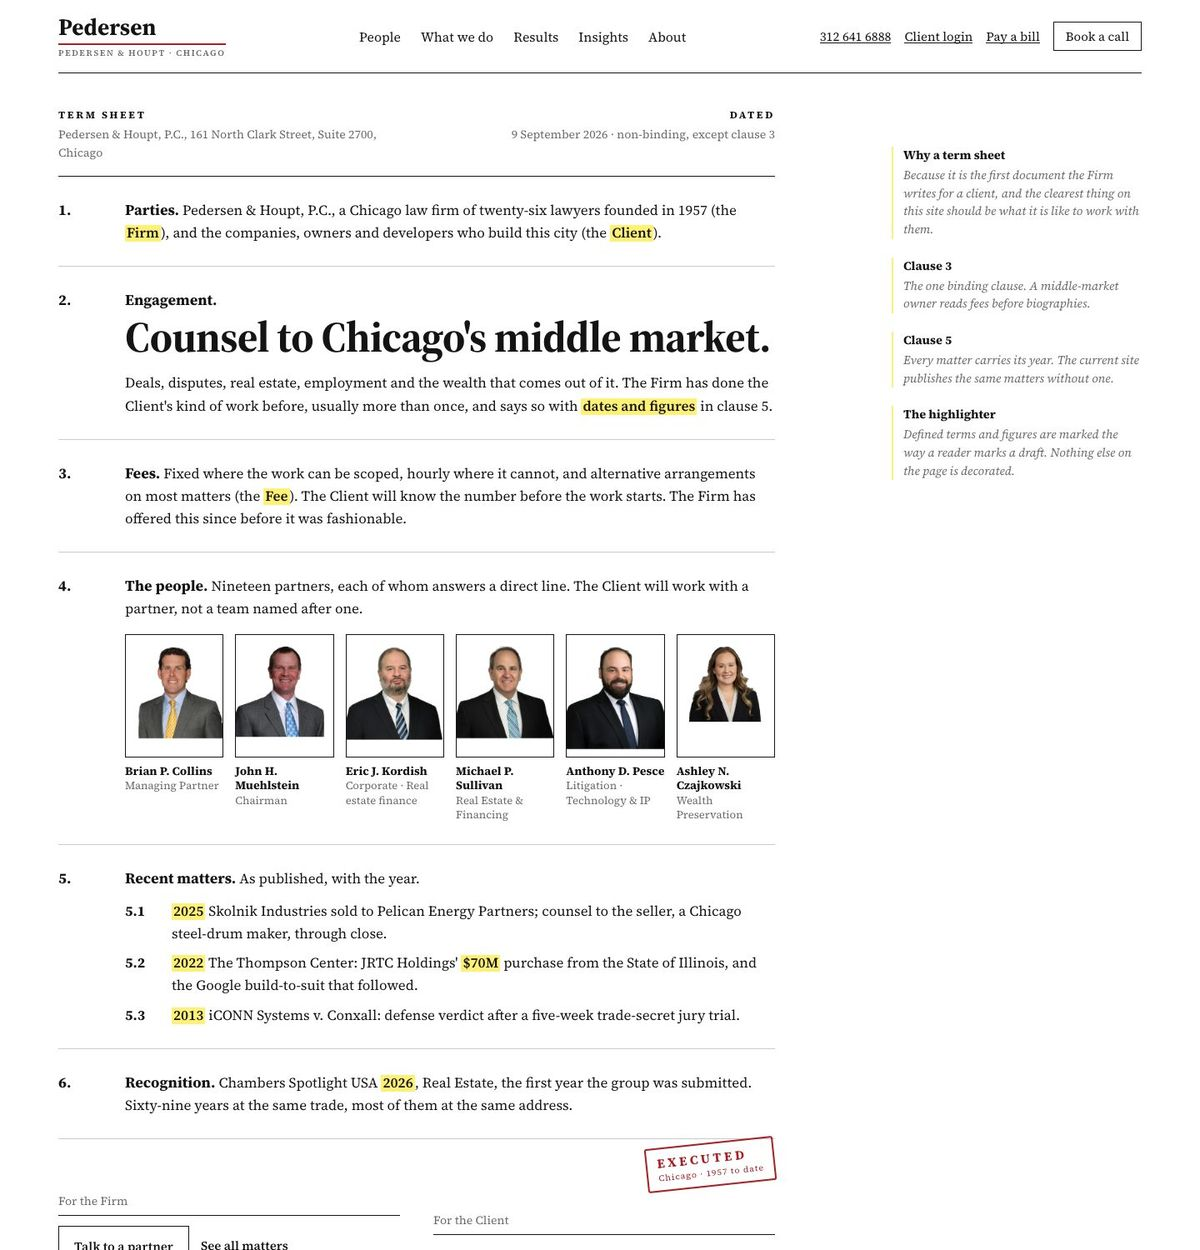
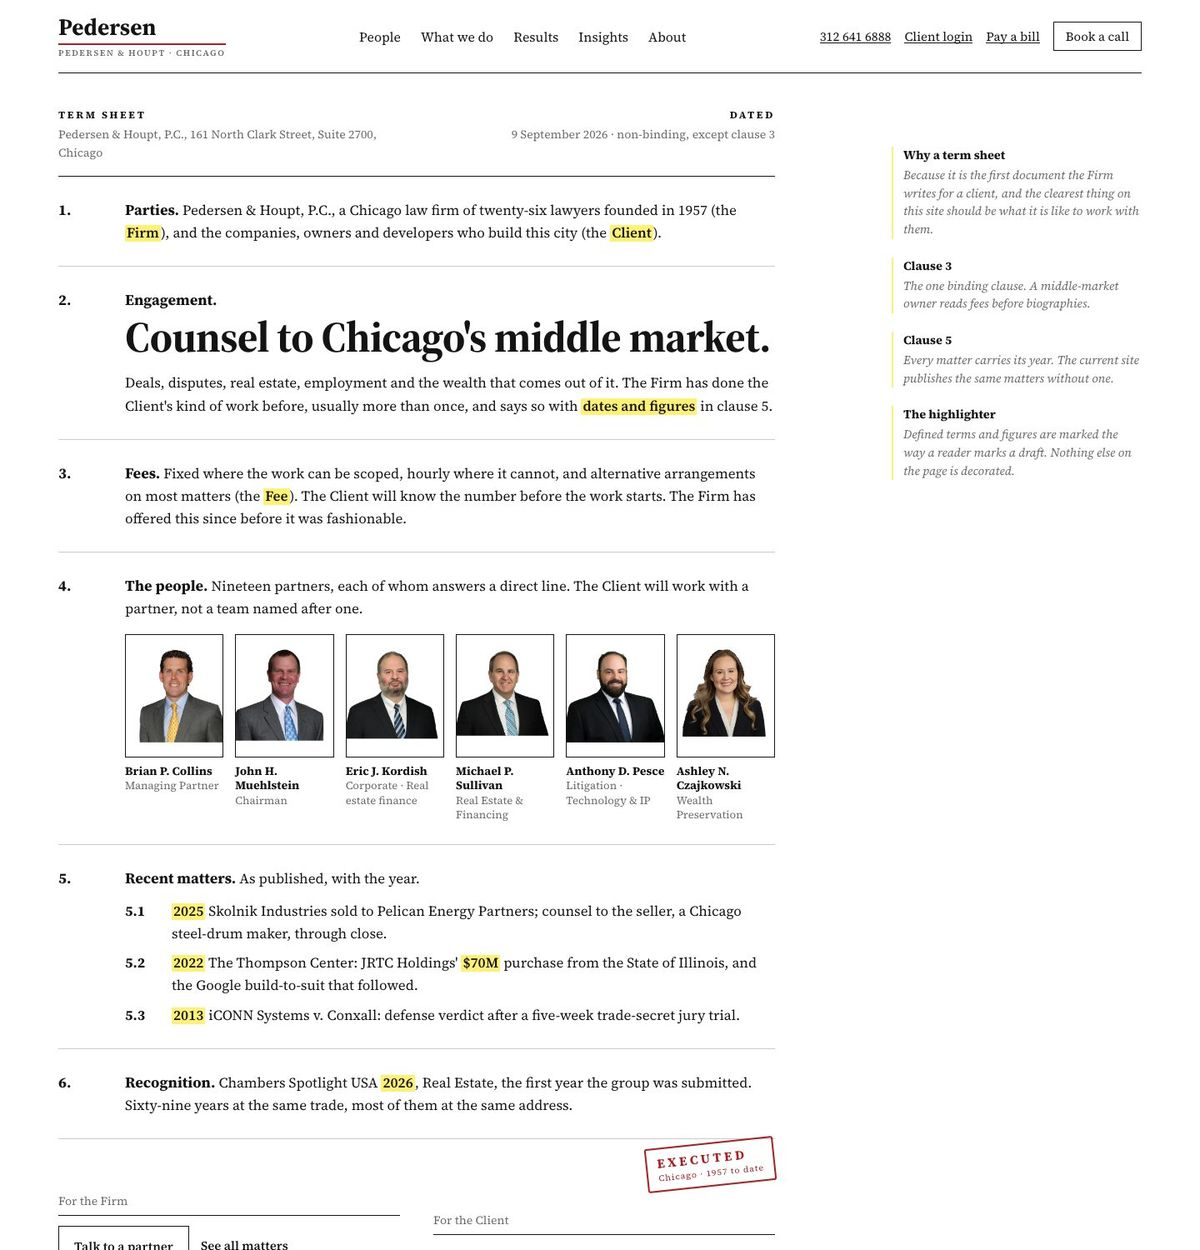
Pedersen demos: face-framed full-res cut-outs, color portraits in B, one panel color in E

Changed region(s): [[0.4625, 0.4992, 0.6475, 0.624], [0.3083, 0.4992, 0.4625, 0.5928], [0.0925, 0.4992, 0.2775, 0.5928]]

diff --git a/Documents/Claude code/pedersen-houpt-site-audit/index.html b/Documents/Claude code/pedersen-houpt-site-audit/index.html
@@ -2496,7 +2496,7 @@
           <div class="sys">
             <div><b>Type</b><strong>Schibsted Grotesk</strong>, a Norwegian newspaper grotesk, for headlines; <strong>Newsreader</strong> for the announcements themselves, the way the genre is set.</div>
             <div><b>Color</b><span class="chip" style="background:#FFFFFF"></span>white <span class="chip" style="background:#111111"></span>black, one lead stone reversed; the red only as the seal. No tints, no gray panels.</div>
-            <div><b>Pictures</b>None but the people, small and black and white. The numerals and the rules are the pictures; the seal is the one moving thing.</div>
+            <div><b>Pictures</b>None but the people, in color, in ruled frames. The numerals and the rules are the pictures; the seal is the one moving thing.</div>
             <div><b>Says · risk</b>Results, on the record, with dates. <strong>Risk:</strong> the industry's own word for these is tombstone; the black lead stone and the seal keep it from reading as a memorial.</div>
           </div>
         </div>
@@ -2540,14 +2540,14 @@
           <div class="kicker"><span class="dot"></span><span class="num">23</span> Direction E · The Loop · <a href="mock/loop-home.html" target="_blank">open the demo ↗</a></div>
           <h2 data-split>The Thompson Center's colors.</h2>
           <div class="ev dir">
-            <figure><img class="shot" src="img/ev/mock-loop-home-desktop.jpg" alt="Direction E homepage" /><figcaption><b>Homepage</b> · the atrium as the hero with a slow drift, a salmon and blue-gray band, color portraits on colored panels, one curved corner</figcaption></figure>
-            <figure><img class="shot" src="img/ev/mock-loop-bio-desktop.jpg" alt="Direction E attorney page" /><figcaption><b>Attorney page</b> · a salmon name band, the portrait on blue, matters as colored cards</figcaption></figure>
+            <figure><img class="shot" src="img/ev/mock-loop-home-desktop.jpg" alt="Direction E homepage" /><figcaption><b>Homepage</b> · the atrium as the hero with a slow drift, a salmon and blue-gray band, color portraits on blue-gray panels, one curved corner</figcaption></figure>
+            <figure><img class="shot" src="img/ev/mock-loop-bio-desktop.jpg" alt="Direction E attorney page" /><figcaption><b>Attorney page</b> · a blue-gray name band, the portrait beside it, matters as cards</figcaption></figure>
             <figure><img class="tall" src="img/ev/mock-loop-home-phone.jpg" alt="Direction E on a phone" /><figcaption><b>Phone</b></figcaption></figure>
           </div>
           <div class="sys">
             <div><b>Type</b><strong>Bricolage Grotesque</strong> at 800, wide and warm, with its optical size pushed for the headline. One family, three weights.</div>
             <div><b>Color</b><span class="chip" style="background:#E9A797"></span>salmon <span class="chip" style="background:#9DB6C9"></span>blue-gray <span class="chip" style="background:#141516"></span>ink: the palette of the firm's marquee matter, the building it bought for a client in 2022.</div>
-            <div><b>Pictures</b>The atrium, the L on Wabash, the office in color after the photo day. Portraits on alternating salmon and blue panels.</div>
+            <div><b>Pictures</b>The atrium, the L on Wabash, the office in color after the photo day. Portraits on blue-gray panels; the salmon kept to one button.</div>
             <div><b>Says · risk</b>A Chicago firm with energy. <strong>Risk:</strong> the closest of the five to a familiar layout; its signature is the palette and a curve, and palettes date.</div>
           </div>
         </div>

diff --git a/Documents/Claude code/pedersen-houpt-site-audit/slides.html b/Documents/Claude code/pedersen-houpt-site-audit/slides.html
@@ -1221,7 +1221,7 @@
           <div class="sys">
             <div><b>Type</b><strong>Schibsted Grotesk</strong>, a Norwegian newspaper grotesk, for headlines; <strong>Newsreader</strong> for the announcements themselves, the way the genre is set.</div>
             <div><b>Color</b><span class="chip" style="background:#FFFFFF"></span>white <span class="chip" style="background:#111111"></span>black, one lead stone reversed; the red only as the seal. No tints, no gray panels.</div>
-            <div><b>Pictures</b>None but the people, small and black and white. The numerals and the rules are the pictures; the seal is the one moving thing.</div>
+            <div><b>Pictures</b>None but the people, in color, in ruled frames. The numerals and the rules are the pictures; the seal is the one moving thing.</div>
             <div><b>Says · risk</b>Results, on the record, with dates. <strong>Risk:</strong> the industry's own word for these is tombstone; the black lead stone and the seal keep it from reading as a memorial.</div>
           </div>
         </div>
@@ -1265,14 +1265,14 @@
           <div class="kicker"><span class="dot"></span><span class="num">23</span> Direction E · The Loop · <a href="mock/loop-home.html" target="_blank">open the demo ↗</a></div>
           <h2 data-split>The Thompson Center's colors.</h2>
           <div class="ev dir">
-            <figure><img class="shot" src="img/ev/mock-loop-home-desktop.jpg" alt="Direction E homepage" /><figcaption><b>Homepage</b> · the atrium as the hero with a slow drift, a salmon and blue-gray band, color portraits on colored panels, one curved corner</figcaption></figure>
-            <figure><img class="shot" src="img/ev/mock-loop-bio-desktop.jpg" alt="Direction E attorney page" /><figcaption><b>Attorney page</b> · a salmon name band, the portrait on blue, matters as colored cards</figcaption></figure>
+            <figure><img class="shot" src="img/ev/mock-loop-home-desktop.jpg" alt="Direction E homepage" /><figcaption><b>Homepage</b> · the atrium as the hero with a slow drift, a salmon and blue-gray band, color portraits on blue-gray panels, one curved corner</figcaption></figure>
+            <figure><img class="shot" src="img/ev/mock-loop-bio-desktop.jpg" alt="Direction E attorney page" /><figcaption><b>Attorney page</b> · a blue-gray name band, the portrait beside it, matters as cards</figcaption></figure>
             <figure><img class="tall" src="img/ev/mock-loop-home-phone.jpg" alt="Direction E on a phone" /><figcaption><b>Phone</b></figcaption></figure>
           </div>
           <div class="sys">
             <div><b>Type</b><strong>Bricolage Grotesque</strong> at 800, wide and warm, with its optical size pushed for the headline. One family, three weights.</div>
             <div><b>Color</b><span class="chip" style="background:#E9A797"></span>salmon <span class="chip" style="background:#9DB6C9"></span>blue-gray <span class="chip" style="background:#141516"></span>ink: the palette of the firm's marquee matter, the building it bought for a client in 2022.</div>
-            <div><b>Pictures</b>The atrium, the L on Wabash, the office in color after the photo day. Portraits on alternating salmon and blue panels.</div>
+            <div><b>Pictures</b>The atrium, the L on Wabash, the office in color after the photo day. Portraits on blue-gray panels; the salmon kept to one button.</div>
             <div><b>Says · risk</b>A Chicago firm with energy. <strong>Risk:</strong> the closest of the five to a familiar layout; its signature is the palette and a curve, and palettes date.</div>
           </div>
         </div>

diff --git a/Documents/Claude code/pedersen-houpt-site-audit/mock/loop-bio.html b/Documents/Claude code/pedersen-houpt-site-audit/mock/loop-bio.html
@@ -23,7 +23,7 @@ nav{display:flex;gap:26px;font:700 14.5px/1 var(--sans)}
 .tools{display:flex;gap:8px;align-items:center;font:700 13px/1 var(--sans)}
 .tools a{padding:11px 14px;border-radius:999px;border:1.5px solid var(--ink)}
 .tools a.pri{background:var(--ink);color:#fff}
-.hero{background:var(--salmon);border-radius:0 0 0 72px;padding:44px 48px 0;display:grid;grid-template-columns:1fr 380px;gap:40px;align-items:end;margin-top:6px}
+.hero{background: var(--blue-2);border-radius:0 0 0 72px;padding:44px 48px 0;display:grid;grid-template-columns:1fr 380px;gap:40px;align-items:end;margin-top:6px}
 .hero .role{font:700 12.5px/1.4 var(--sans);letter-spacing:.06em;text-transform:uppercase}
 .hero h1{font:800 clamp(52px,7vw,104px)/.9 var(--sans);letter-spacing:-.045em;margin:12px 0 14px}
 .hero p{font-size:18px;max-width:40ch;padding-bottom:40px}
@@ -31,11 +31,11 @@ nav{display:flex;gap:26px;font:700 14.5px/1 var(--sans)}
 .hero img{width:100%;height:100%;object-fit:cover;object-position:center top}
 .row{display:flex;gap:10px;flex-wrap:wrap;margin-top:22px}
 .row a{padding:12px 16px;border-radius:999px;border:1.5px solid var(--ink);font:700 13.5px/1 var(--sans)}
-.row a.pri{background:var(--ink);color:#fff}
+.row a.pri{background:var(--salmon);color:var(--ink);border-color:var(--salmon)}
 .help{font:700 clamp(26px,3vw,40px)/1.1 var(--sans);letter-spacing:-.035em;max-width:26ch;margin:40px 0 0}
 h2{font:800 clamp(24px,2.6vw,34px)/1 var(--sans);letter-spacing:-.03em;margin:44px 0 18px}
 .cards{display:grid;grid-template-columns:repeat(3,1fr);gap:14px}
-.c{padding:22px 22px 24px;border-radius:0 0 0 28px;background:var(--salmon-2)}
+.c{padding:22px 22px 24px;border-radius:0 0 0 28px;background:#eef2f5}
 .c:nth-child(3n+2){background:var(--blue-2)}.c:nth-child(3n){background:#EFEFEF}
 .c b{display:block;font:800 40px/1 var(--sans);letter-spacing:-.04em}
 .c small{display:block;font:700 12px/1 var(--sans);letter-spacing:.05em;text-transform:uppercase;margin-top:8px}

diff --git a/Documents/Claude code/pedersen-houpt-site-audit/mock/record-bio.html b/Documents/Claude code/pedersen-houpt-site-audit/mock/record-bio.html
@@ -28,10 +28,8 @@ nav{display:flex;gap:24px;font:700 13px/1 var(--grot);letter-spacing:.04em;text-
 .frame{border:1.5px solid var(--ink);padding:7px}
 .frame .in{border:1px solid var(--ink);padding:18px 18px 16px;text-align:center}
 .frame .rec{font:500 10px/1.4 var(--grot);letter-spacing:.16em;text-transform:uppercase;color:var(--gray)}
-.frame .ph{aspect-ratio:4/5;overflow:hidden;margin:14px 0 12px;background:#EDEDED}
-.frame img{width:100%;height:100%;object-fit:cover;object-position:center top;filter:grayscale(1) contrast(1.12)}
-.frame .name{font:600 24px/1.1 var(--serif)}
-.frame .cap{font:italic 400 14px/1.4 var(--serif);color:#444;margin-top:4px}
+.frame .ph{aspect-ratio:4/5;overflow:hidden;margin:14px 0 12px;background:#f4f4f2}
+.frame img{width:100%;height:100%;object-fit:cover;object-position:center top;color:#444;margin-top:4px}
 .contact{margin-top:14px}
 .contact a,.contact div{display:flex;justify-content:space-between;gap:12px;padding:10px 0;border-bottom:1px solid var(--soft);font:400 15px/1.3 var(--serif)}
 .contact span:last-child{font:700 12.5px var(--grot);letter-spacing:.02em}

diff --git a/Documents/Claude code/pedersen-houpt-site-audit/mock/loop-home.html b/Documents/Claude code/pedersen-houpt-site-audit/mock/loop-home.html
@@ -243,12 +243,12 @@
       .card .ph {
         aspect-ratio: 4/5;
         overflow: hidden;
-        background: var(--salmon-2);
+        background: var(--blue-2);
         border-radius: 0 0 0 28px;
         transition: background 0.3s;
       }
       .card:nth-child(even) .ph {
-        background: var(--blue-2);
+        background: #e6edf2;
       }
       .card img {
         width: 100%;
@@ -258,7 +258,7 @@
         transition: transform 0.5s cubic-bezier(0.2, 0.7, 0.2, 1);
       }
       .card:hover .ph {
-        background: var(--salmon);
+        background: var(--blue);
       }
       .card:nth-child(even):hover .ph {
         background: var(--blue);
@@ -316,7 +316,7 @@
         margin: 40px 0 64px;
       }
       .m {
-        background: var(--salmon-2);
+        background: #eef2f5;
         padding: 26px 24px 28px;
         border-radius: 0 0 0 28px;
       }
@@ -324,7 +324,7 @@
         background: var(--blue-2);
       }
       .m:nth-child(3) {
-        background: #efefef;
+        background: #eef2f5;
       }
       .m .y {
         font: 700 13px/1 var(--sans);

diff --git a/Documents/Claude code/pedersen-houpt-site-audit/mock/record-home.html b/Documents/Claude code/pedersen-houpt-site-audit/mock/record-home.html
@@ -293,14 +293,14 @@
       .card .ph {
         aspect-ratio: 1/1;
         overflow: hidden;
-        background: #ededed;
+        background: #f4f4f2; border: 1px solid var(--soft);
       }
       .card img {
         width: 100%;
         height: 100%;
         object-fit: cover;
         object-position: center top;
-        filter: grayscale(1) contrast(1.12);
+        
       }
       .card h3 {
         font: 700 14px/1.2 var(--grot);
